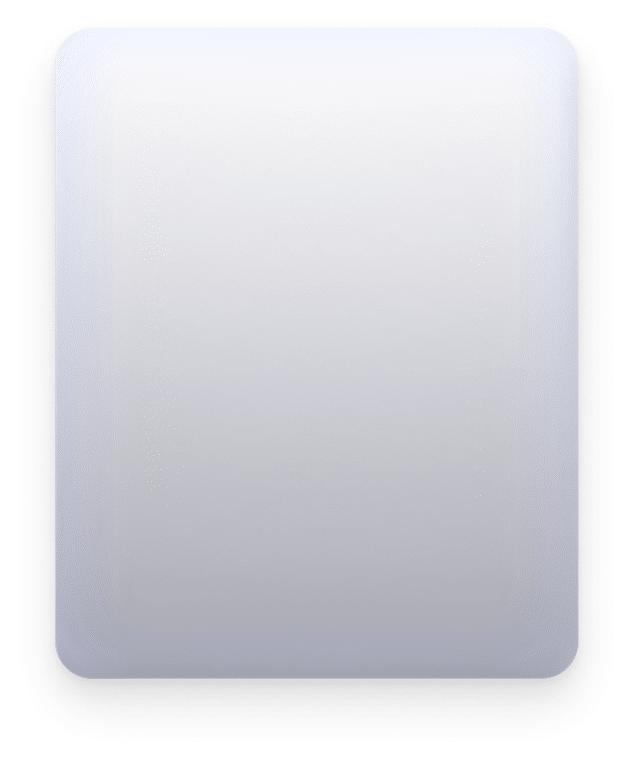
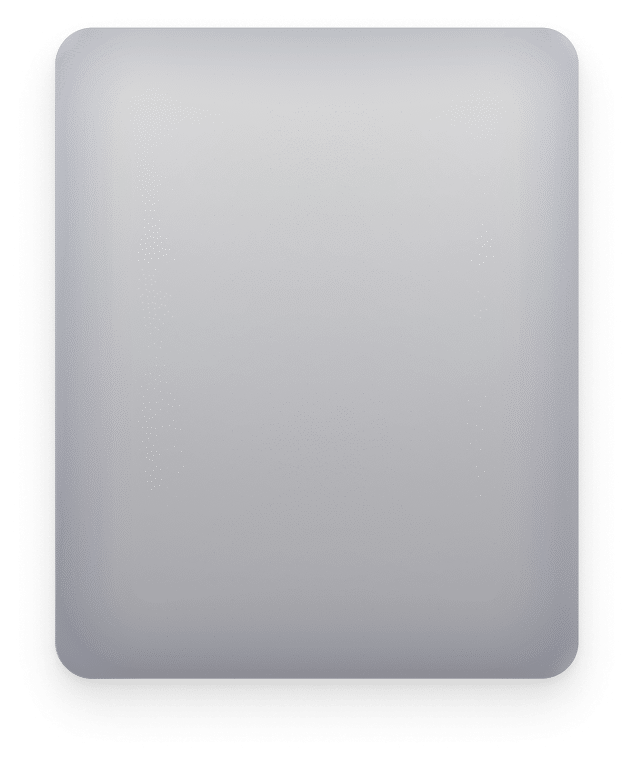
few fixes

diff --git a/index.html b/index.html
@@ -66,8 +66,8 @@
                     Use data driven hiring tools to discover top talent, streamline screening, and build your next high-performing team.
                 </div>
             </div>
-            <div class="job-tooltip">
-                <a href="talent.html" class="btn btn-secondary">Looking for a job?</a>
+            <div class="job-tooltip job-image-button">
+                <a href="talent.html" class="job-image-link">Looking for a job?</a>
                 <div class="job-tooltip-text">
                     Discover remote, hybrid, and on-site opportunities that match your skills. Your next career move is only a few clicks away.
                 </div>
@@ -76,11 +76,7 @@
         </div>
     </div>
 
-    <!-- Scroll Indicator -->
-    <div class="hero-scroll">
-        <span>Scroll</span>
-        <div class="scroll-dot"></div>
-    </div>
+    
 </section>
 
 <!-- DIVIDER -->
@@ -102,7 +98,7 @@
                         
                         <div class="service-body">
                             <div class="service-body-left">
-                                <div class="service-icon"><i class="fa-solid fa-magnifying-glass"></i></div>
+                                <div class="service-icon"><img src="assets/icon 1.png" alt="Recruitment icon"></div>
                                 <h3>Recruitment &amp; Executive Search</h3>
                                 <p>From sourcing to onboarding, we take ownership of the entire hiring lifecycle to deliver people who become real contributors from day one. Our strategic recruitment model works across all levels entry to executive ensuring every match is intentional, culture-fit, and growth-focused.</p>
                             </div>
@@ -124,7 +120,7 @@
                         
                         <div class="service-body">
                             <div class="service-body-left">
-                                <div class="service-icon"><i class="fa-solid fa-diagram-project"></i></div>
+                                <div class="service-icon"><img src="assets/icon 2.png" alt="Outsourcing icon"></div>
                                 <h3>Outsourcing</h3>
                                 <p>Lebanon's talent market provides deep expertise, creativity, and flexibility across all functions. When you outsource or build remote teams here, you gain access to premium capabilities while reducing payroll and overhead expenses, enabling smarter scaling and sustainable growth.</p>
                             </div>
@@ -146,7 +142,7 @@
                         
                         <div class="service-body">
                             <div class="service-body-left">
-                                <div class="service-icon"><i class="fa-solid fa-file-signature"></i></div>
+                                <div class="service-icon"><img src="assets/icon 3.png" alt="Employer of Record icon"></div>
                                 <h3>Employer of Record (EOR)</h3>
                                 <p>Hiring talent in Lebanon shouldn't require opening a local entity.
 With Worktales as your Employer of Record, we legally employ your team on your behalf-while you stay focused on managing their work, not the paperwork.</p>
@@ -296,4 +292,3 @@ With Worktales as your Employer of Record, we legally employ your team on your b
 <script src="script.js"></script>
 </body>
 </html>
-

diff --git a/style.css b/style.css
@@ -137,6 +137,31 @@ background: transparent;
 transform: none;
 }
 
+.job-image-link {
+ display: inline-flex;
+ align-items: center;
+ justify-content: center;
+ padding: 14px 28px;
+ border-radius: 999px;
+ background: transparent;
+ color: var(--text);
+ font-weight: 700;
+ letter-spacing: 0.02em;
+ text-decoration: none;
+ min-width: 220px;
+ border: 2px solid rgba(255, 255, 255, 0.3);
+ box-shadow: 0 12px 30px rgba(0, 0, 0, 0.35);
+ transition: background 0.25s ease, color 0.25s ease, box-shadow 0.25s ease, border-color 0.25s ease;
+ backdrop-filter: blur(3px);
+}
+
+.job-image-link:hover {
+ background: #e6f7ff;
+ color: var(--primary);
+ border-color: rgba(0, 132, 255, 0.3);
+ box-shadow: 0 8px 20px rgba(0, 0, 0, 0.25);
+}
+
 /* Header */
 .header {
 position: fixed;
@@ -668,6 +693,12 @@ font-size: 2.1rem;
 color: var(--text);
 border: 1px solid rgba(255,255,255,0.12);
 box-shadow: inset 0 0 0 1px rgba(255,255,255,0.04);
+}
+
+.service-icon img {
+ width: 60%;
+ height: 60%;
+ object-fit: contain;
 }
 
 .service-card h3 {
@@ -1213,6 +1244,7 @@ text-align: center;
  align-items: center;
  justify-content: center;
  gap: 8px;
+ line-height: 1.4;
 }
 
 .why-tooltip-list li::before {
@@ -1558,7 +1590,7 @@ position: relative;
  transform: translateY(0) scale(1);
  align-items: flex-start;
  border: 1px solid rgba(255, 255, 255, 0.14);
- background: url("assets/bk.png") center / 180% no-repeat;
+ background: url("assets/glass card.png") center / 180% no-repeat;
  backdrop-filter: none;
  overflow: hidden;
  transition: transform 0.35s ease, border-color 0.35s ease, box-shadow 0.35s ease, filter 0.35s ease, opacity 0.35s ease;
@@ -3462,4 +3494,3 @@ padding: 40px 0 20px;
     margin-right: 0;
   }
 }
-
